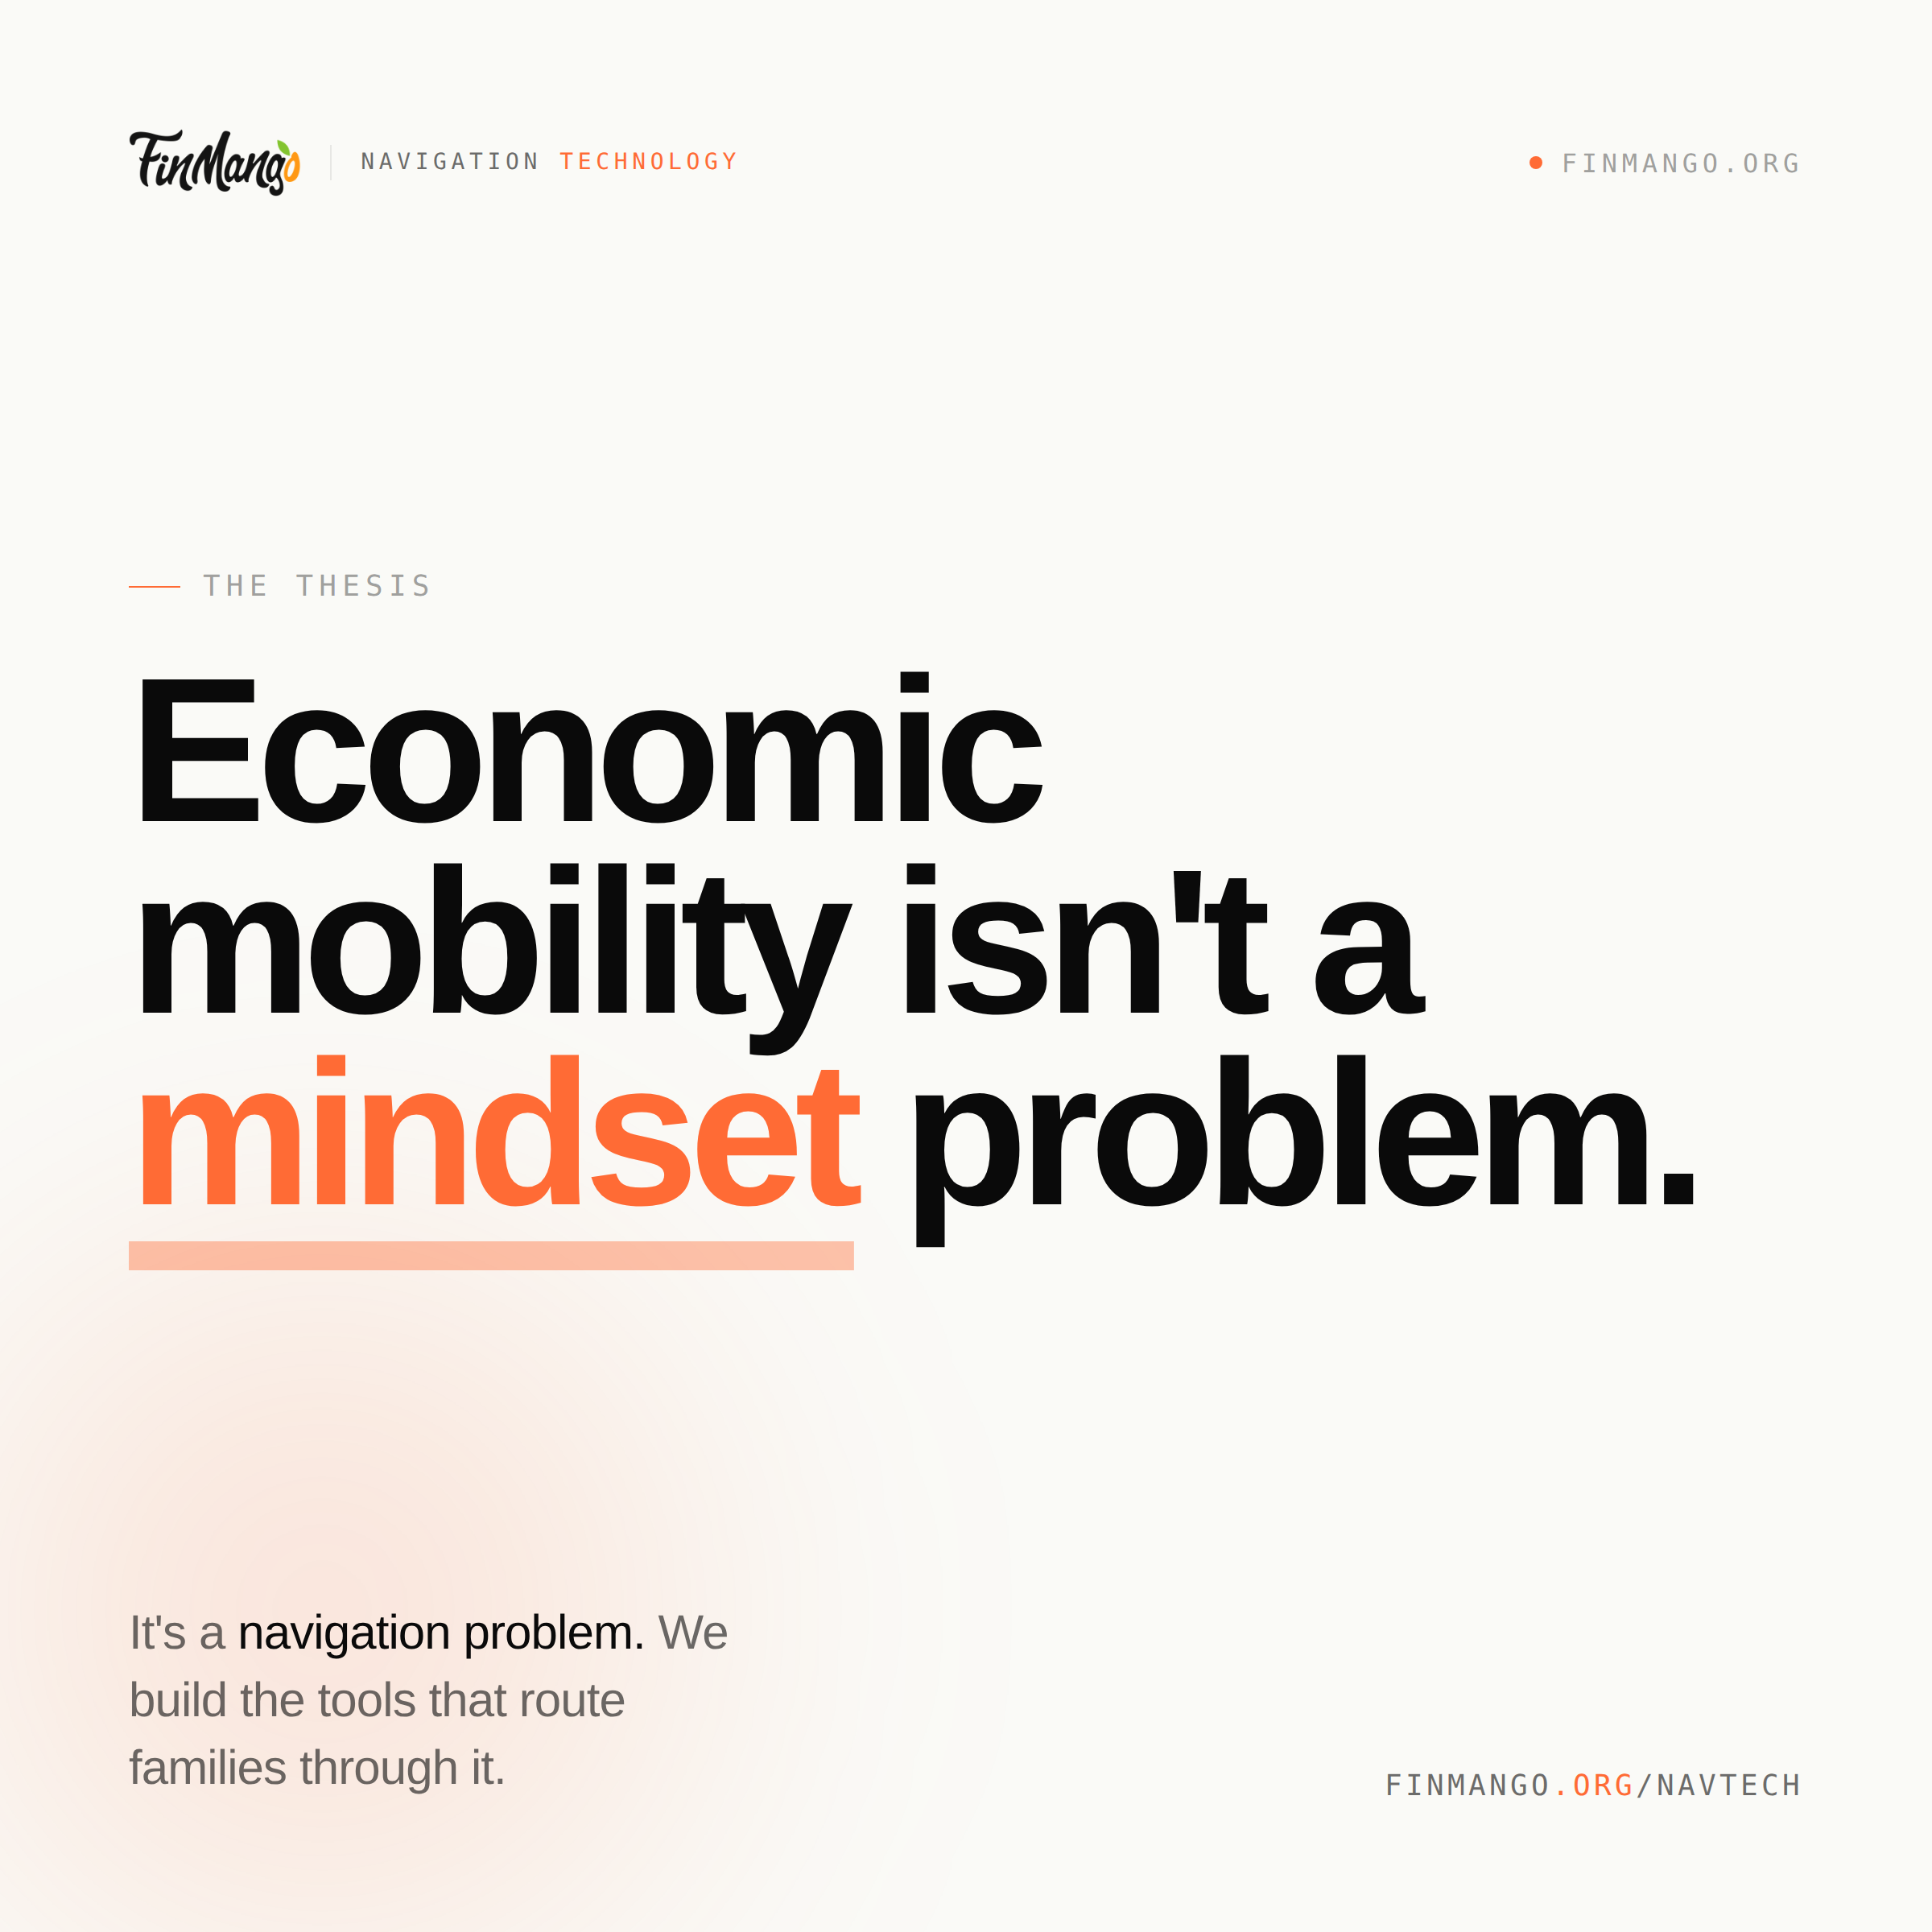
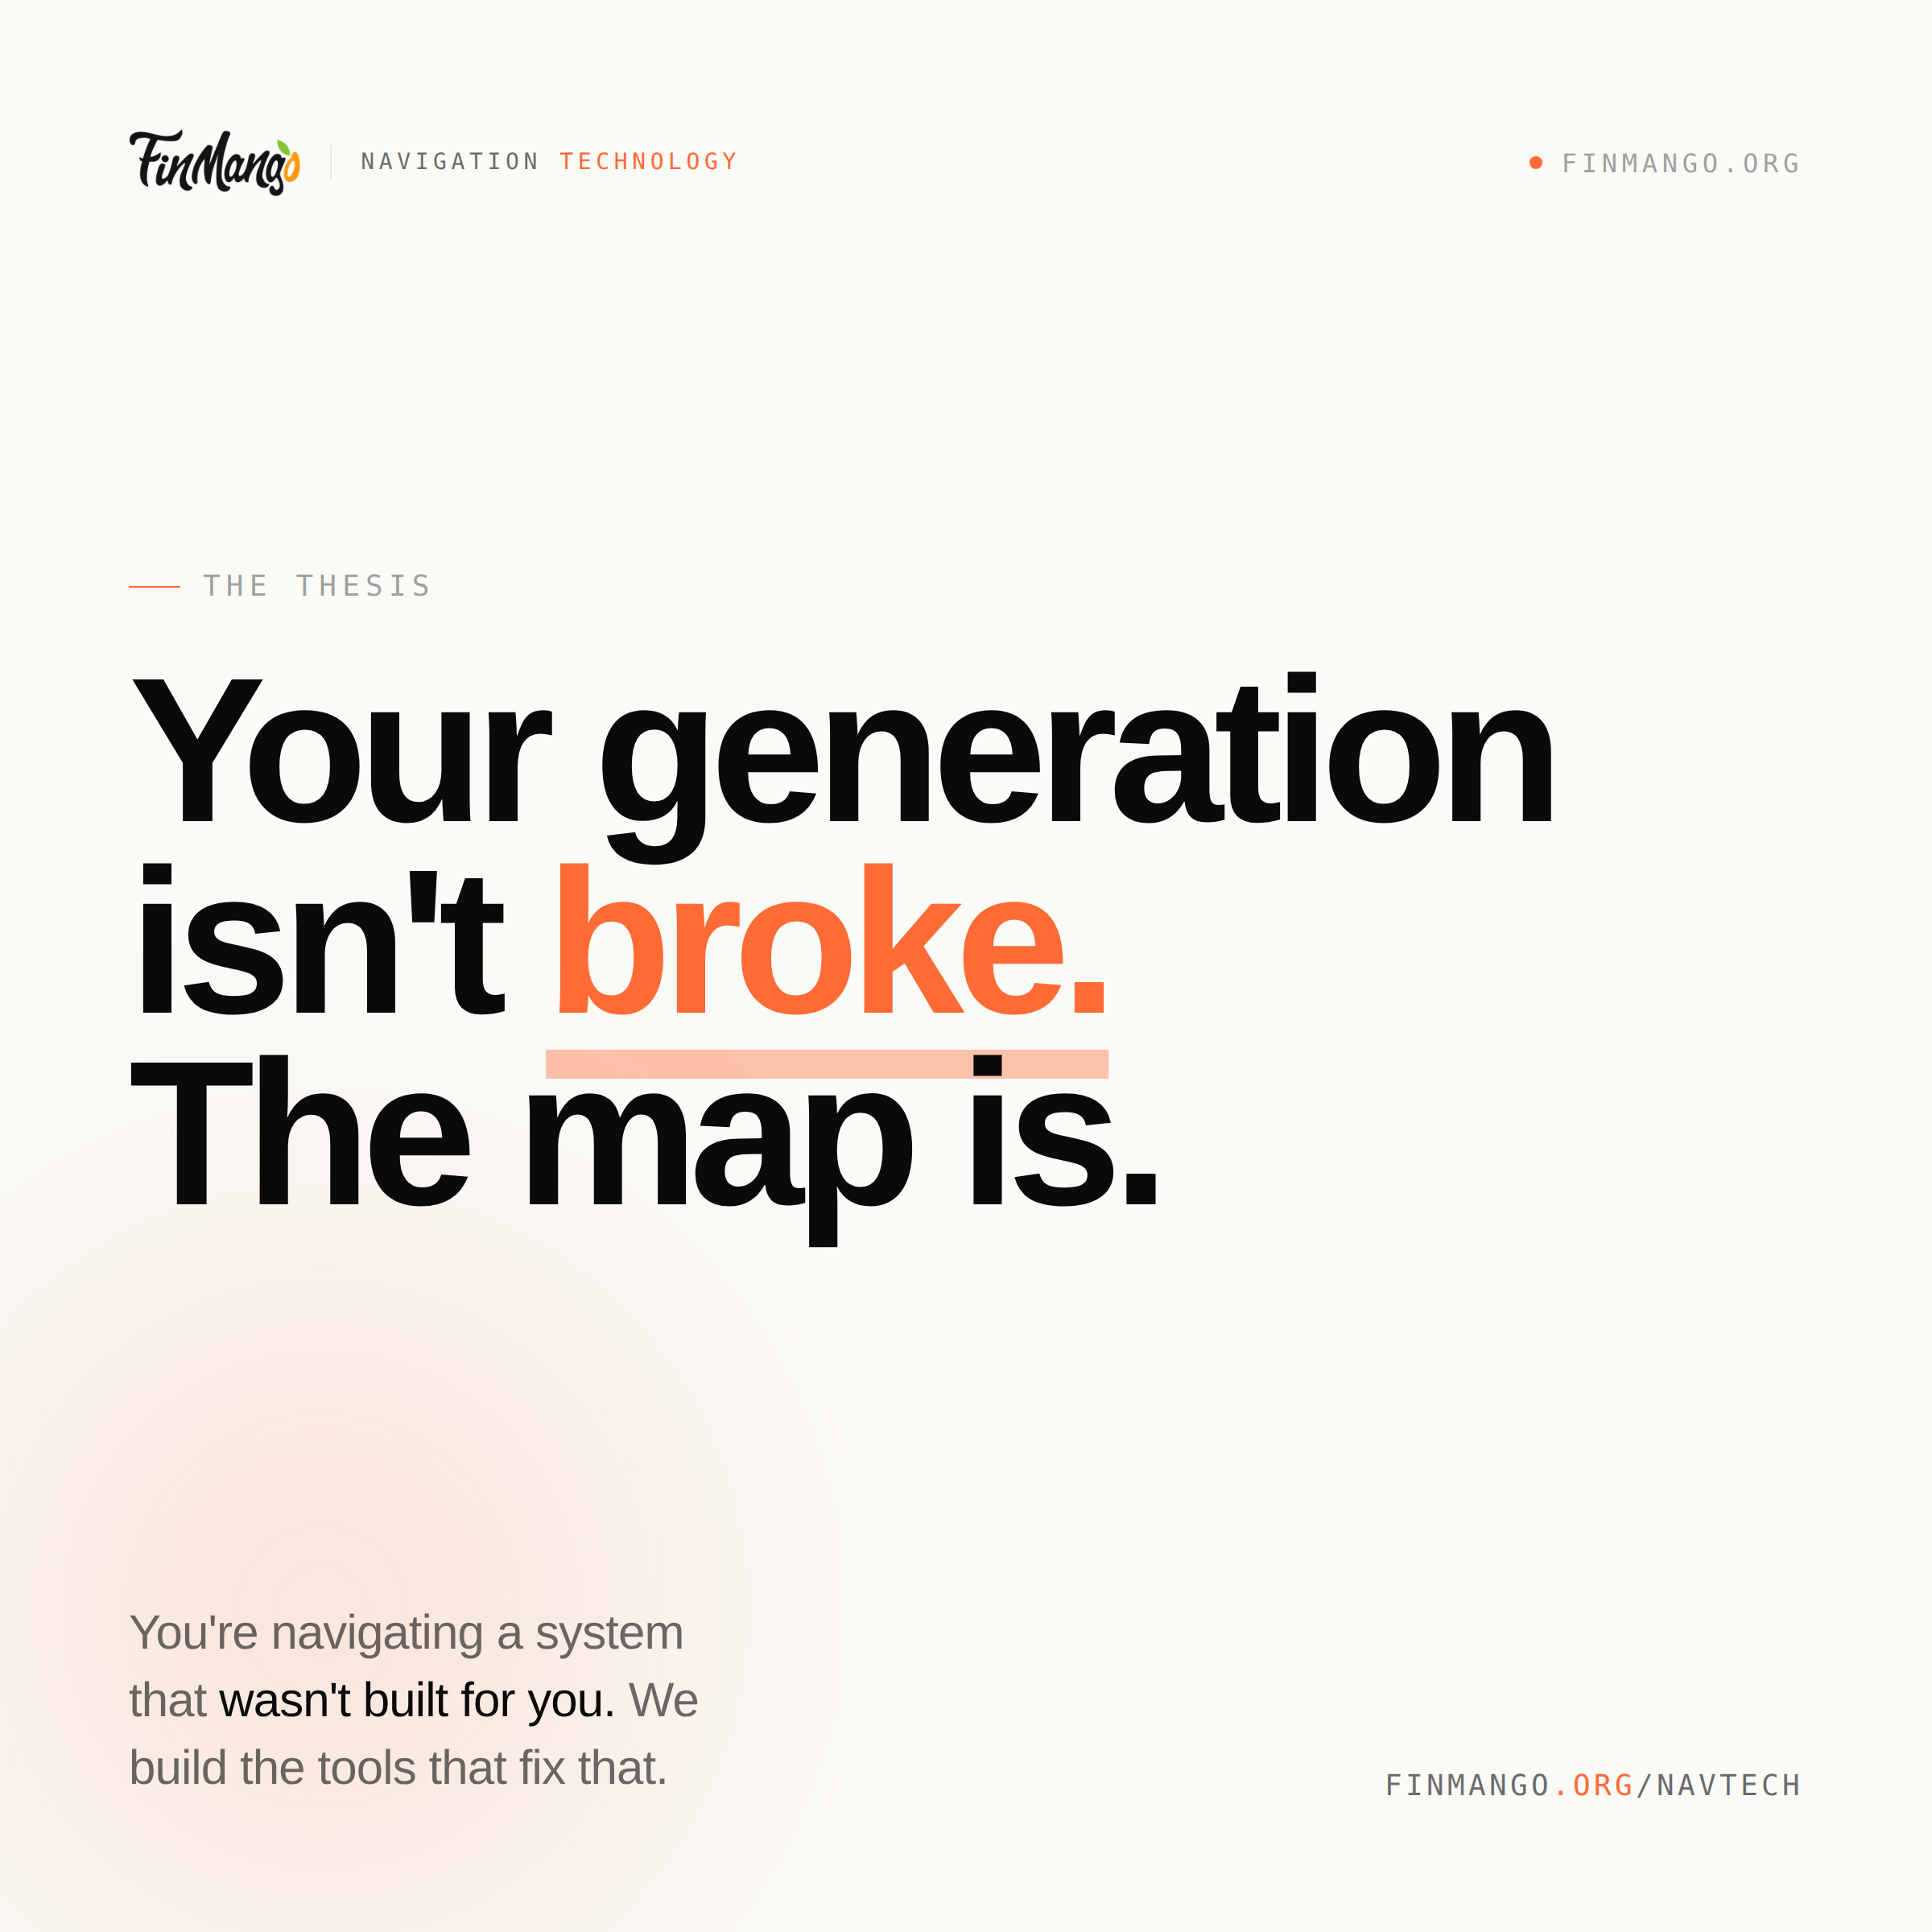
retarget NavTech posts 1, 4, 7 to young adults
Sharpens the thesis, AI-native, and quote-card graphics toward the
young-adult audience that actually reshares on LinkedIn. Posts 2/3/5/6/8
keep the family + frontline framing for the funder pitch.

https://claude.ai/code/session_01TiPJm9fv1iiFVYrtvr482Z

Changed region(s): [[0.0625, 0.3438, 0.875, 0.6562], [0.0625, 0.8125, 0.375, 0.9375]]

diff --git a/navtech-linkedin-posts.html b/navtech-linkedin-posts.html
@@ -406,11 +406,11 @@ body{
     <div style="margin-top:auto;margin-bottom:auto;">
       <div class="eyebrow">The Thesis</div>
       <h1 class="title">
-        Economic mobility isn't a <em class="underline">mindset</em> problem.
+        Your generation isn't <em class="underline">broke.</em><br>The map is.
       </h1>
     </div>
     <div class="foot">
-      <p class="sub">It's a <strong>navigation problem.</strong> We build the tools that route families through it.</p>
+      <p class="sub">You're navigating a system that <strong>wasn't built for you.</strong> We build the tools that fix that.</p>
       <div class="url">finmango<span>.org</span>/navtech</div>
     </div>
   </div>
@@ -475,11 +475,11 @@ body{
     <div style="margin-top:auto;margin-bottom:auto;">
       <div class="eyebrow">Why now</div>
       <h1 class="title">
-        Navigation is a <em class="underline">reasoning</em> problem.
+        Your debt isn't a <em class="underline">literacy</em> problem.
       </h1>
     </div>
     <div class="foot">
-      <p class="sub">Not a content problem. Not a chatbot. <strong>Routing — at the speed of need.</strong></p>
+      <p class="sub">It's a reasoning problem. Not a budget app. Not a chatbot. <strong>AI that routes you through the maze — in seconds.</strong></p>
       <div class="url">finmango<span>.org</span>/navtech</div>
     </div>
   </div>
@@ -540,7 +540,7 @@ body{
       <div class="status"><span class="dot"></span>FinMango</div>
     </div>
     <h1 class="quote">
-      We don't teach families to navigate <span class="strike">a maze.</span><br>
+      We don't teach you to navigate <span class="strike">the maze.</span><br>
       We <em>rebuild the map.</em>
     </h1>
     <div class="foot">